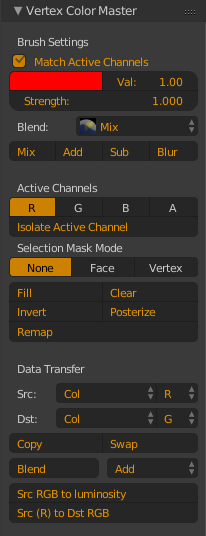
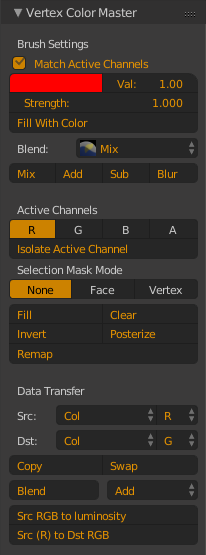
Add quick fill with color feature and update README.md

diff --git a/vertex_color_master.py b/vertex_color_master.py
@@ -300,6 +300,36 @@ def color_to_weights(obj, src_vcol, src_channel_idx, dst_vgroup_idx):
     mesh.update()
 
 
+# no channel checking. Designed to more efficiently apply a color to mesh
+def quick_fill_selected(mesh, vcol, color, mask='NONE'):
+    vcol_data = vcol.data
+    if mask == 'FACE':
+        selected_faces = [face for face in mesh.polygons if face.select]
+        for face in selected_faces:
+            for loop_index in face.loop_indices:
+                c = vcol_data[loop_index].color
+                c[0] = color[0]
+                c[1] = color[1]
+                c[2] = color[2]
+                vcol_data[loop_index].color = c
+    elif mask == 'VERTEX':
+        verts = mesh.vertices
+        for loop_index, loop in enumerate(mesh.loops):
+            if verts[loop.vertex_index].select:
+                c = vcol_data[loop_index].color
+                c[0] = color[0]
+                c[1] = color[1]
+                c[2] = color[2]
+                vcol_data[loop_index].color = c
+    else: # mask == 'NONE'
+        for loop_index, loop in enumerate(mesh.loops):
+            c = vcol_data[loop_index].color
+            c[0] = color[0]
+            c[1] = color[1]
+            c[2] = color[2]
+            vcol_data[loop_index].color = c
+
+
 def fill_selected(mesh, vcol, color, active_channels, mask='NONE'):
     if mask == 'FACE':
         selected_faces = [face for face in mesh.polygons if face.select]
@@ -947,6 +977,35 @@ class VertexColorMaster_EditBrushSettings(bpy.types.Operator):
         return {'FINISHED'}
 
 
+class VertexColorMaster_QuickFill(bpy.types.Operator):
+    """Quick fill vertex color RGB with current brush color. Can use selection mask."""
+    bl_idname = 'vertexcolormaster.quick_fill'
+    bl_label = 'VCM Fill Color'
+    bl_options = {'REGISTER', 'UNDO'}
+
+    fill_color = FloatVectorProperty(
+        name="Fill Color",
+        subtype='COLOR',
+        default=[1.0,1.0,1.0],
+        description="Color to fill vertex color data with."
+    )
+
+    @classmethod
+    def poll(cls, context):
+        obj = context.active_object
+        return bpy.context.object.mode == 'VERTEX_PAINT' and obj is not None and obj.type == 'MESH'
+
+    def execute(self, context):
+        settings = context.scene.vertex_color_master_settings
+
+        mesh = context.active_object.data
+        vcol = mesh.vertex_colors.active if mesh.vertex_colors else mesh.vertex_colors.new()
+
+        quick_fill_selected(mesh, vcol, self.fill_color, settings.mask_mode)
+
+        return {'FINISHED'}
+
+
 class VertexColorMaster_IsolateChannel(bpy.types.Operator):
     """Isolate a specific channel to paint in grayscale."""
     bl_idname = 'vertexcolormaster.isolate_channel'
@@ -1246,6 +1305,8 @@ class VertexColorMaster(bpy.types.Panel):
             row.prop(settings, 'brush_value', 'Val', slider=True)
             row = col.row(align=True)
             row.prop(brush, 'strength', text="Strength")
+            row = col.row(align=True)
+            row.operator('vertexcolormaster.quick_fill', "Fill With Color").fill_color = brush.color
         else:
             row = col.row(align=True)
             row.prop(settings, 'brush_value_isolate', 'Val', slider=True)
@@ -1374,6 +1435,7 @@ def register():
         type=VertexColorMasterProperties)
 
     bpy.utils.register_class(VertexColorMaster)
+    bpy.utils.register_class(VertexColorMaster_QuickFill)
     bpy.utils.register_class(VertexColorMaster_Fill)
     bpy.utils.register_class(VertexColorMaster_Invert)
     bpy.utils.register_class(VertexColorMaster_Posterize)
@@ -1395,6 +1457,7 @@ def unregister():
     del bpy.types.Scene.vertex_color_master_settings
 
     bpy.utils.unregister_class(VertexColorMaster)
+    bpy.utils.unregister_class(VertexColorMaster_QuickFill)
     bpy.utils.unregister_class(VertexColorMaster_Fill)
     bpy.utils.unregister_class(VertexColorMaster_Invert)
     bpy.utils.unregister_class(VertexColorMaster_Posterize)

diff --git a/README.md b/README.md
@@ -1,5 +1,8 @@
 # Vertex Color Master for Blender
-An add-on for Blender that adds numerous features to assist working with vertex colors.
+
+[![Donate](https://img.shields.io/badge/Donate-PayPal-green.svg)](https://www.paypal.com/cgi-bin/webscr?cmd=_donations&business=S3GTZ2J938U6Y&lc=GB&item_name=Andrew%20Palmer&currency_code=GBP&bn=PP%2dDonationsBF%3abtn_donateCC_LG%2egif%3aNonHosted)
+
+An add-on for [Blender](https://www.blender.org/) that adds numerous features to assist working with vertex colors.
 
 ## Installation
 1. Download the script from GitHub by clicking [here](https://github.com/andyp123/blender_vertex_color_master/archive/master.zip).
@@ -24,6 +27,11 @@ The add-on will appear in the Brush tab of the tools menu in vertex paint mode a
 Brush settings contains a few of the most useful brush options so that the add-on can be open and useful without needing the full brush menu to be open. This way there is more space in the Tools panel, even on smaller displays.
 
 + __Match Active Channels__ (on) - With this option enabled, changing the active channels will update the brush color to match the channels that are active, such that enabling only R will give red, R and G will give yellow and all RGB will give white etc. If this is undesirable, disable this option.
+
+### Fill With Color
+This will ignore any selected active channels and fill the mesh with the current brush color. It can use the selection mask mode, so this is a handy shortcut for filling selected faces or vertices with a specific color instead of trying to set the value via channels or painting.
+
++ __Fill Color__ (white) - Color with which to fill the mesh or selection (if using selection mask).
 
 ### Active Channels
 The active channels section allows the user to enable or disable channels that the functions directly under the active channels will work on. For example, enabling only the R channel will mean that it is the only channel to be affected when the Invert button is pressed, etc. Different combinations of RGBA can be selected by holding the shift key while clicking on the channel buttons.
@@ -122,3 +130,9 @@ Copy the value of the 'Src' channel to the uv layer in the 'Dst' layer.
 * Add function to do quick gradient shading.
 * Add function to set UV shells to random colors.
 * Add function to bake curvature to colors.
+
+---
+
+If you like this Add-on and would like to make a donation, you can do so buy clicking this button. Every little helps, even if it just keeps me caffeinated!
+
+[![Donate](https://www.paypalobjects.com/en_US/GB/i/btn/btn_donateCC_LG.gif)](https://www.paypal.com/cgi-bin/webscr?cmd=_donations&business=S3GTZ2J938U6Y&lc=GB&item_name=Andrew%20Palmer&currency_code=GBP&bn=PP%2dDonationsBF%3abtn_donateCC_LG%2egif%3aNonHosted)
